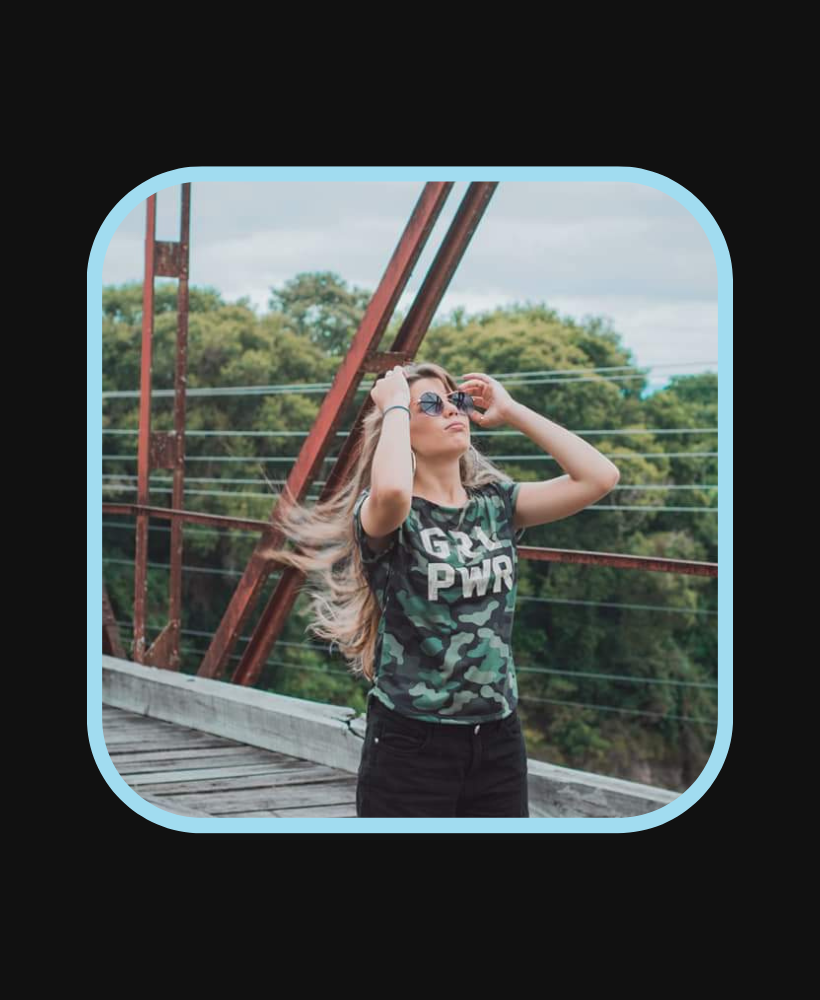
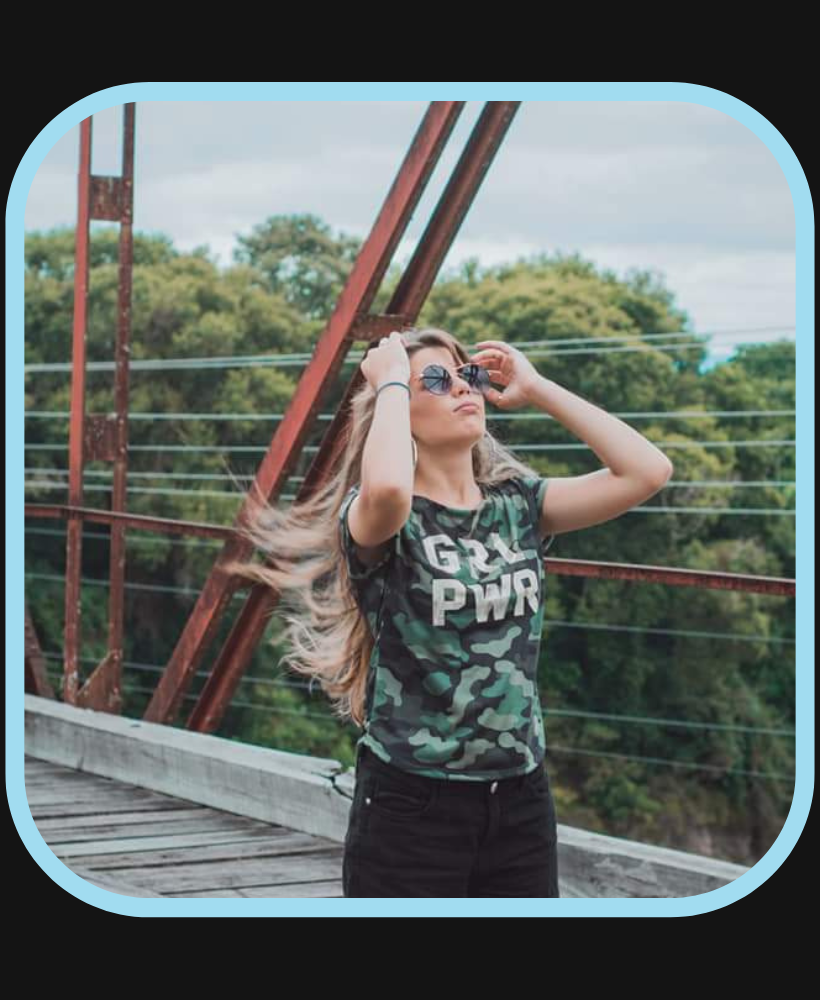
configuração ícones do social

diff --git a/style.css b/style.css
@@ -113,38 +113,44 @@ nav a:hover {
 
 /* FOTO PERFIL */
 
+.hero-img {
+  display: flex;
+  justify-content: center;
+  align-items: center;
+}
+
 .foto-perfil {
-  width: 200px;
-  height: 200px;
+  width: 260px; /* aumentamos */
+  height: 260px;
   border-radius: 50%;
   object-fit: cover;
-  padding: 5px;
-  background: linear-gradient(135deg, #3b82f6, #6366f1);
+  border: 4px solid #3b82f6; /* borda controlada */
+  box-shadow: 0 20px 60px rgba(59, 130, 246, 0.25);
 }
 
 /* CARDS / SKILLS */
 
-.cards {
+.skills-grid {
   display: grid;
   grid-template-columns: repeat(auto-fit, minmax(160px, 1fr));
   gap: 20px;
+  margin-top: 40px;
 }
 
-.card {
-  background: #1f1f1f;
-  padding: 25px 15px; /* PADRÃO */
+.skill-card {
+  padding: 20px;
+  border-radius: 14px;
+  background: rgba(255, 255, 255, 0.03);
+  backdrop-filter: blur(6px);
+  border: 1px solid rgba(255, 255, 255, 0.08);
   text-align: center;
-  border-radius: 12px;
-  transition: 0.3s;
-  display: flex;
-  align-items: center;
-  justify-content: center;
-  min-height: 80px;
+  font-weight: 500;
+  transition: 0.3s ease;
 }
 
-.card:hover {
-  transform: translateY(-8px);
-  box-shadow: 0 8px 18px rgba(0, 0, 0, 0.6);
+.skill-card:hover {
+  transform: translateY(-6px);
+  border-color: #3b82f6;
 }
 
 /* PROJETOS */
@@ -240,6 +246,10 @@ nav a:hover {
 .social {
   text-align: center;
   font-size: 32px;
+  margin-top: 40px;
+  display: flex;
+  justify-content: center;
+  gap: 25px;
 }
 
 .social a {
@@ -600,6 +610,28 @@ body > * {
 .form-box .btn {
   width: 180px;
   align-self: center;
+}
+
+.contato form {
+  margin-bottom: 30px;
+}
+
+.contato form {
+  display: flex;
+  flex-direction: column;
+  gap: 15px;
+  max-width: 500px;
+  margin: 0 auto;
+}
+
+.contato input,
+.contato textarea {
+  width: 100%;
+  padding: 12px 14px;
+  border-radius: 10px;
+  border: 1px solid rgba(255,255,255,0.15);
+  background: rgba(255,255,255,0.03);
+  color: white;
 }
 
 /* ===== CTA FINAL ===== */
